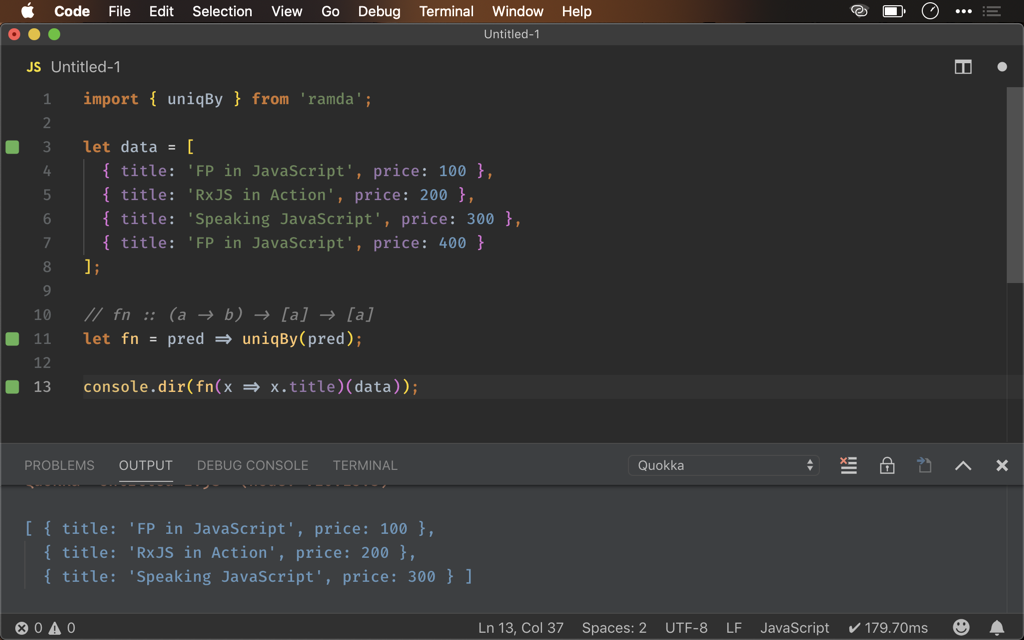
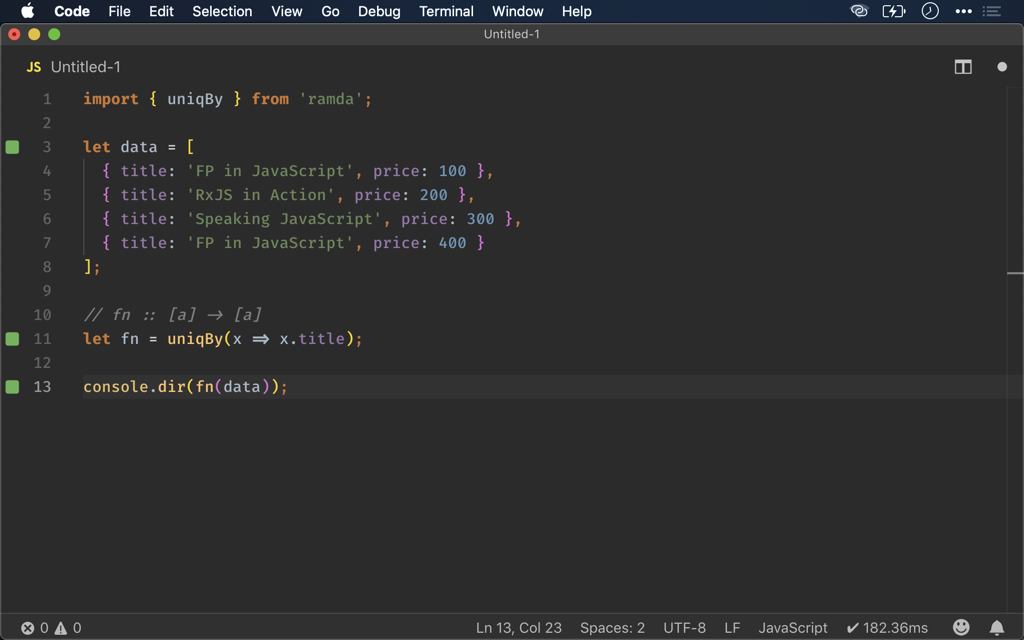
Ramda 之 uniqBy()

diff --git a/source/_posts/ramda/uniqby.md b/source/_posts/ramda/uniqby.md
@@ -74,20 +74,21 @@ import { uniqBy } from 'ramda';
 
 let data = [1, 2, 3, -1];
 
-// fn :: (a -> b) -> [a] -> [a]
-let fn = pred => uniqBy(pred);
+// fn :: [a] -> [a]
+let fn = uniqBy(x => Math.abs(x));
 
-console.log(fn(x => Math.abs(x))(data));
+console.log(fn(data));
 ```
 
 若 `1` 與 `-1` 視為相同，我們希望結果只顯示 `[1, 2, 3]`。
 
 此時就不能再使用 `uniq()`，因為條件太特殊，只能使用 `uniqBy()`。
 
-第 8 行
+第 5 行
 
 ```javascript
-console.log(fn(x => Math.abs(x))(data));
+// fn :: [a] -> [a]
+let fn = uniqBy(x => Math.abs(x));
 ```
 
 自行提供 `x => Math.abs(x)`，如此 `1` 與 `-1` 都視為相同。
@@ -106,20 +107,21 @@ let data = [
   { title: 'FP in JavaScript', price: 400 }
 ];
 
-// fn :: (a -> b) -> [a] -> [a]
-let fn = pred => uniqBy(pred);
+// fn :: [a] -> [a]
+let fn = uniqBy(x => x.title);
 
-console.dir(fn(x => x.title)(data));
+console.dir(fn(data));
 ```
 
 若 element 為 object，只要 `title` 相同就視為相同，也就是第一筆與第四筆，雖然 `price` 不同，但仍視為相同，我們希望結果只顯示不重複的前三筆。
 
 此時就不能再使用 `uniq()`，因為條件太特殊，只能使用 `uniqBy()`。
 
-13 行
+10 行
 
 ```javascript
-console.dir(fn(x => x.title)(data));
+// fn :: [a] -> [a]
+let fn = uniqBy(x => x.title);
 ```
 
 自行提供 `x => x.title`，如此 object 只要 `title` 相同就視為相同。
@@ -138,10 +140,10 @@ let data = [
   { title: 'FP in JavaScript', price: 400 }
 ];
 
-// fn :: (a -> b) -> [a] -> [a]
-let fn = pred => uniqBy(pred);
+// fn :: [a] -> [a]
+let fn = uniqBy(prop('title'));
 
-console.dir(fn(prop('title'))(data));
+console.dir(fn(data));
 ```
 
 `x => x.title` 也可由 `prop()` 產生使其 point-free，可讀性更高。
